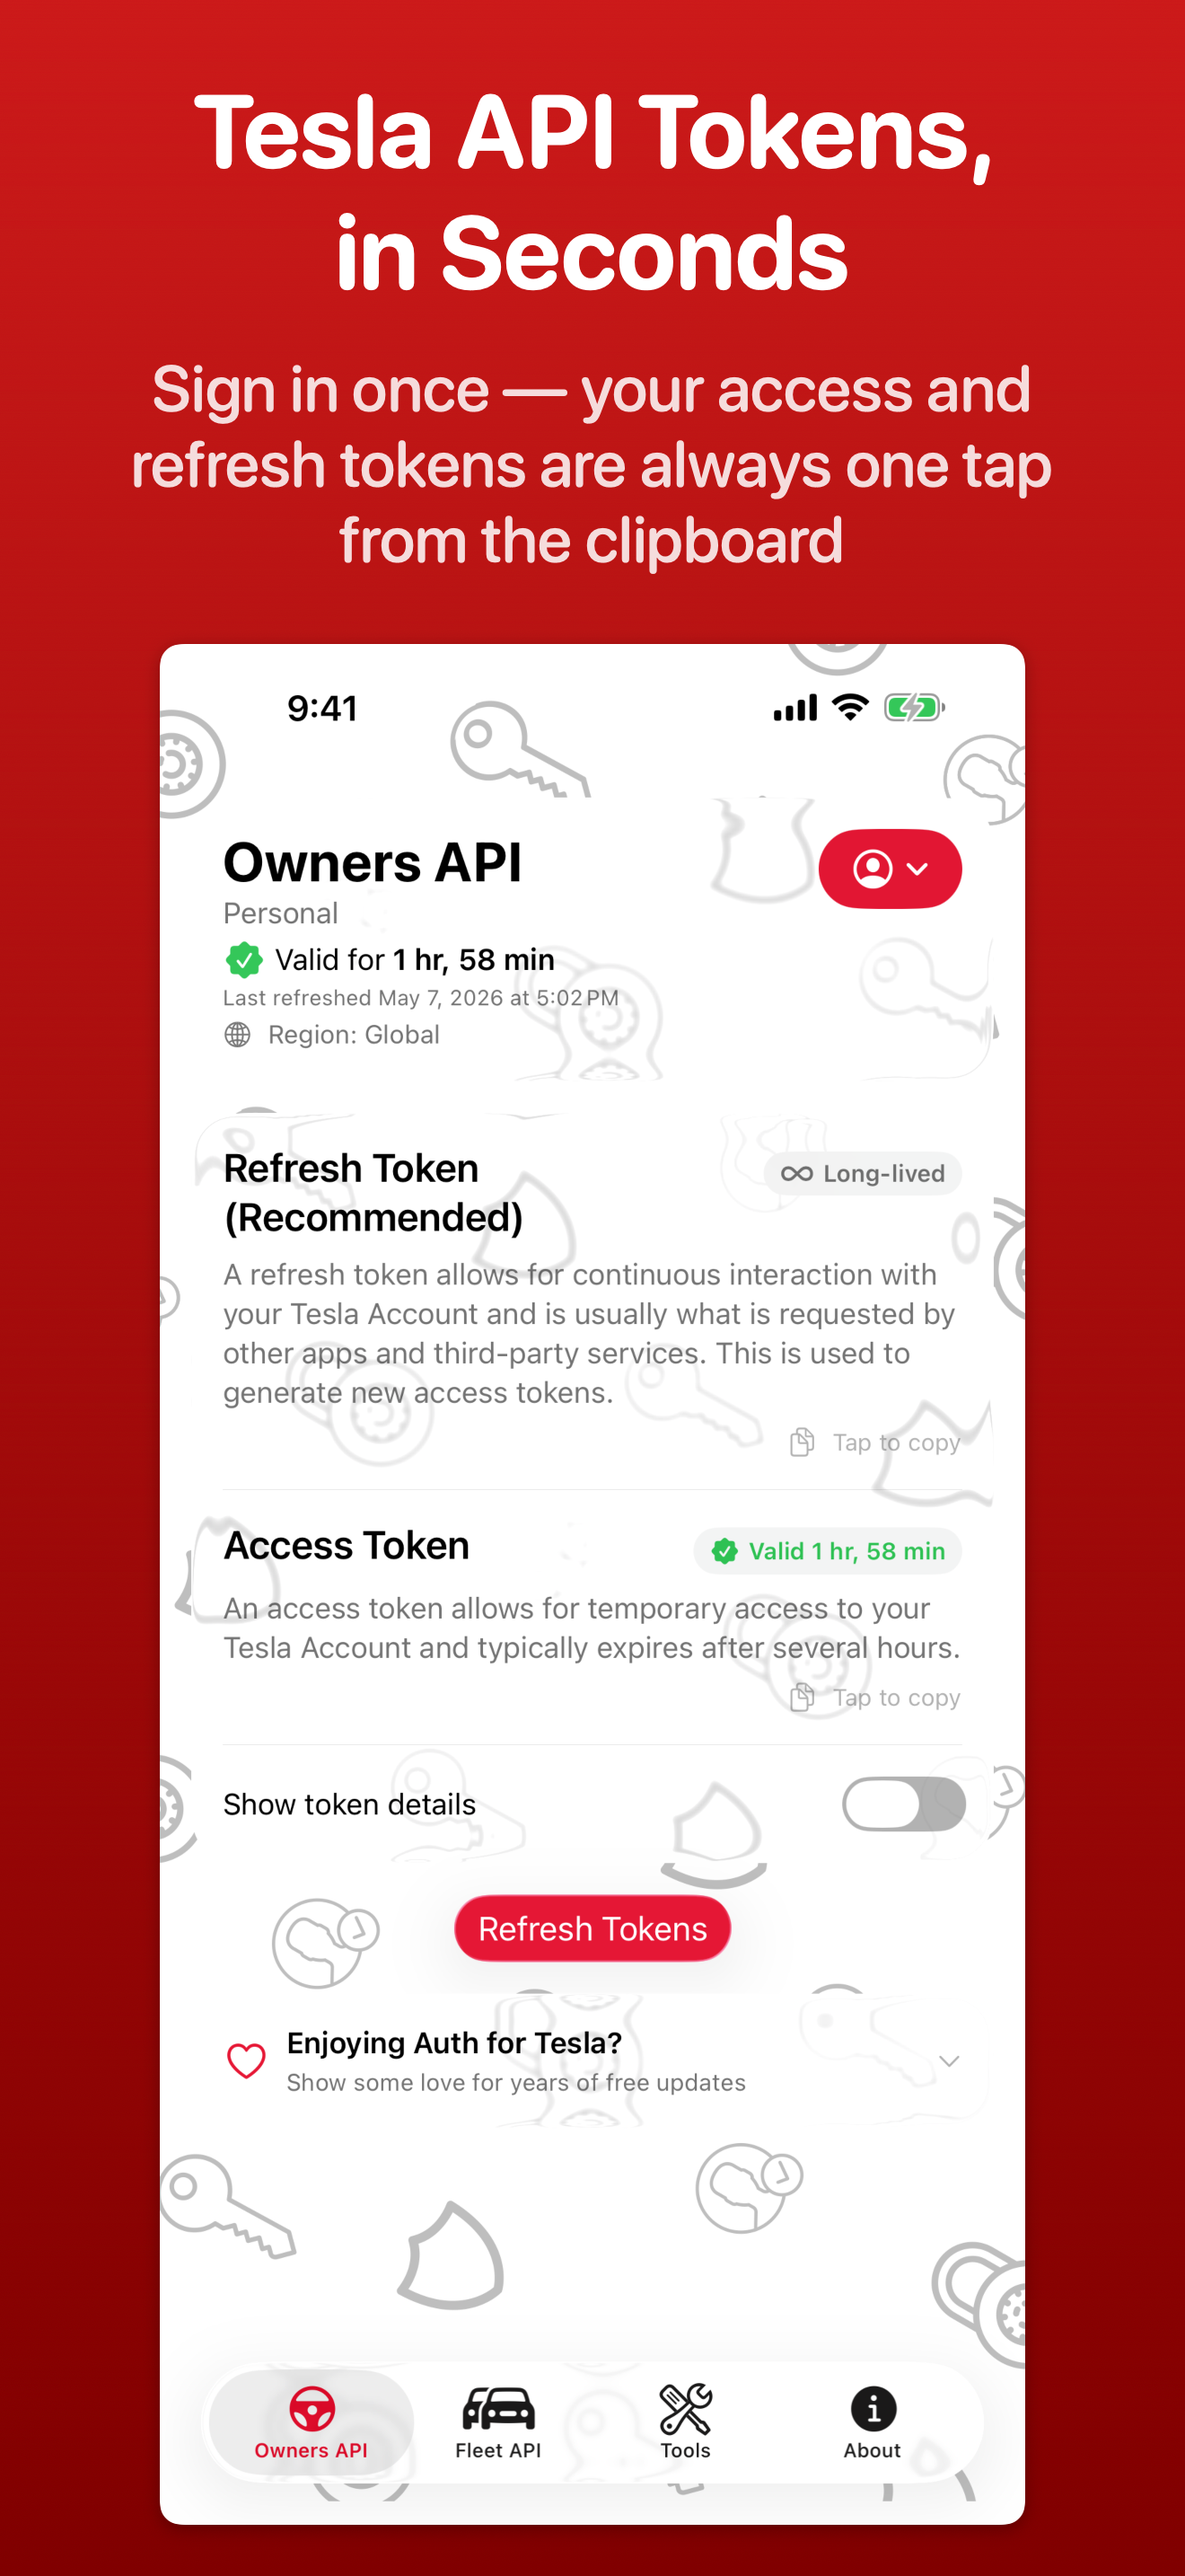
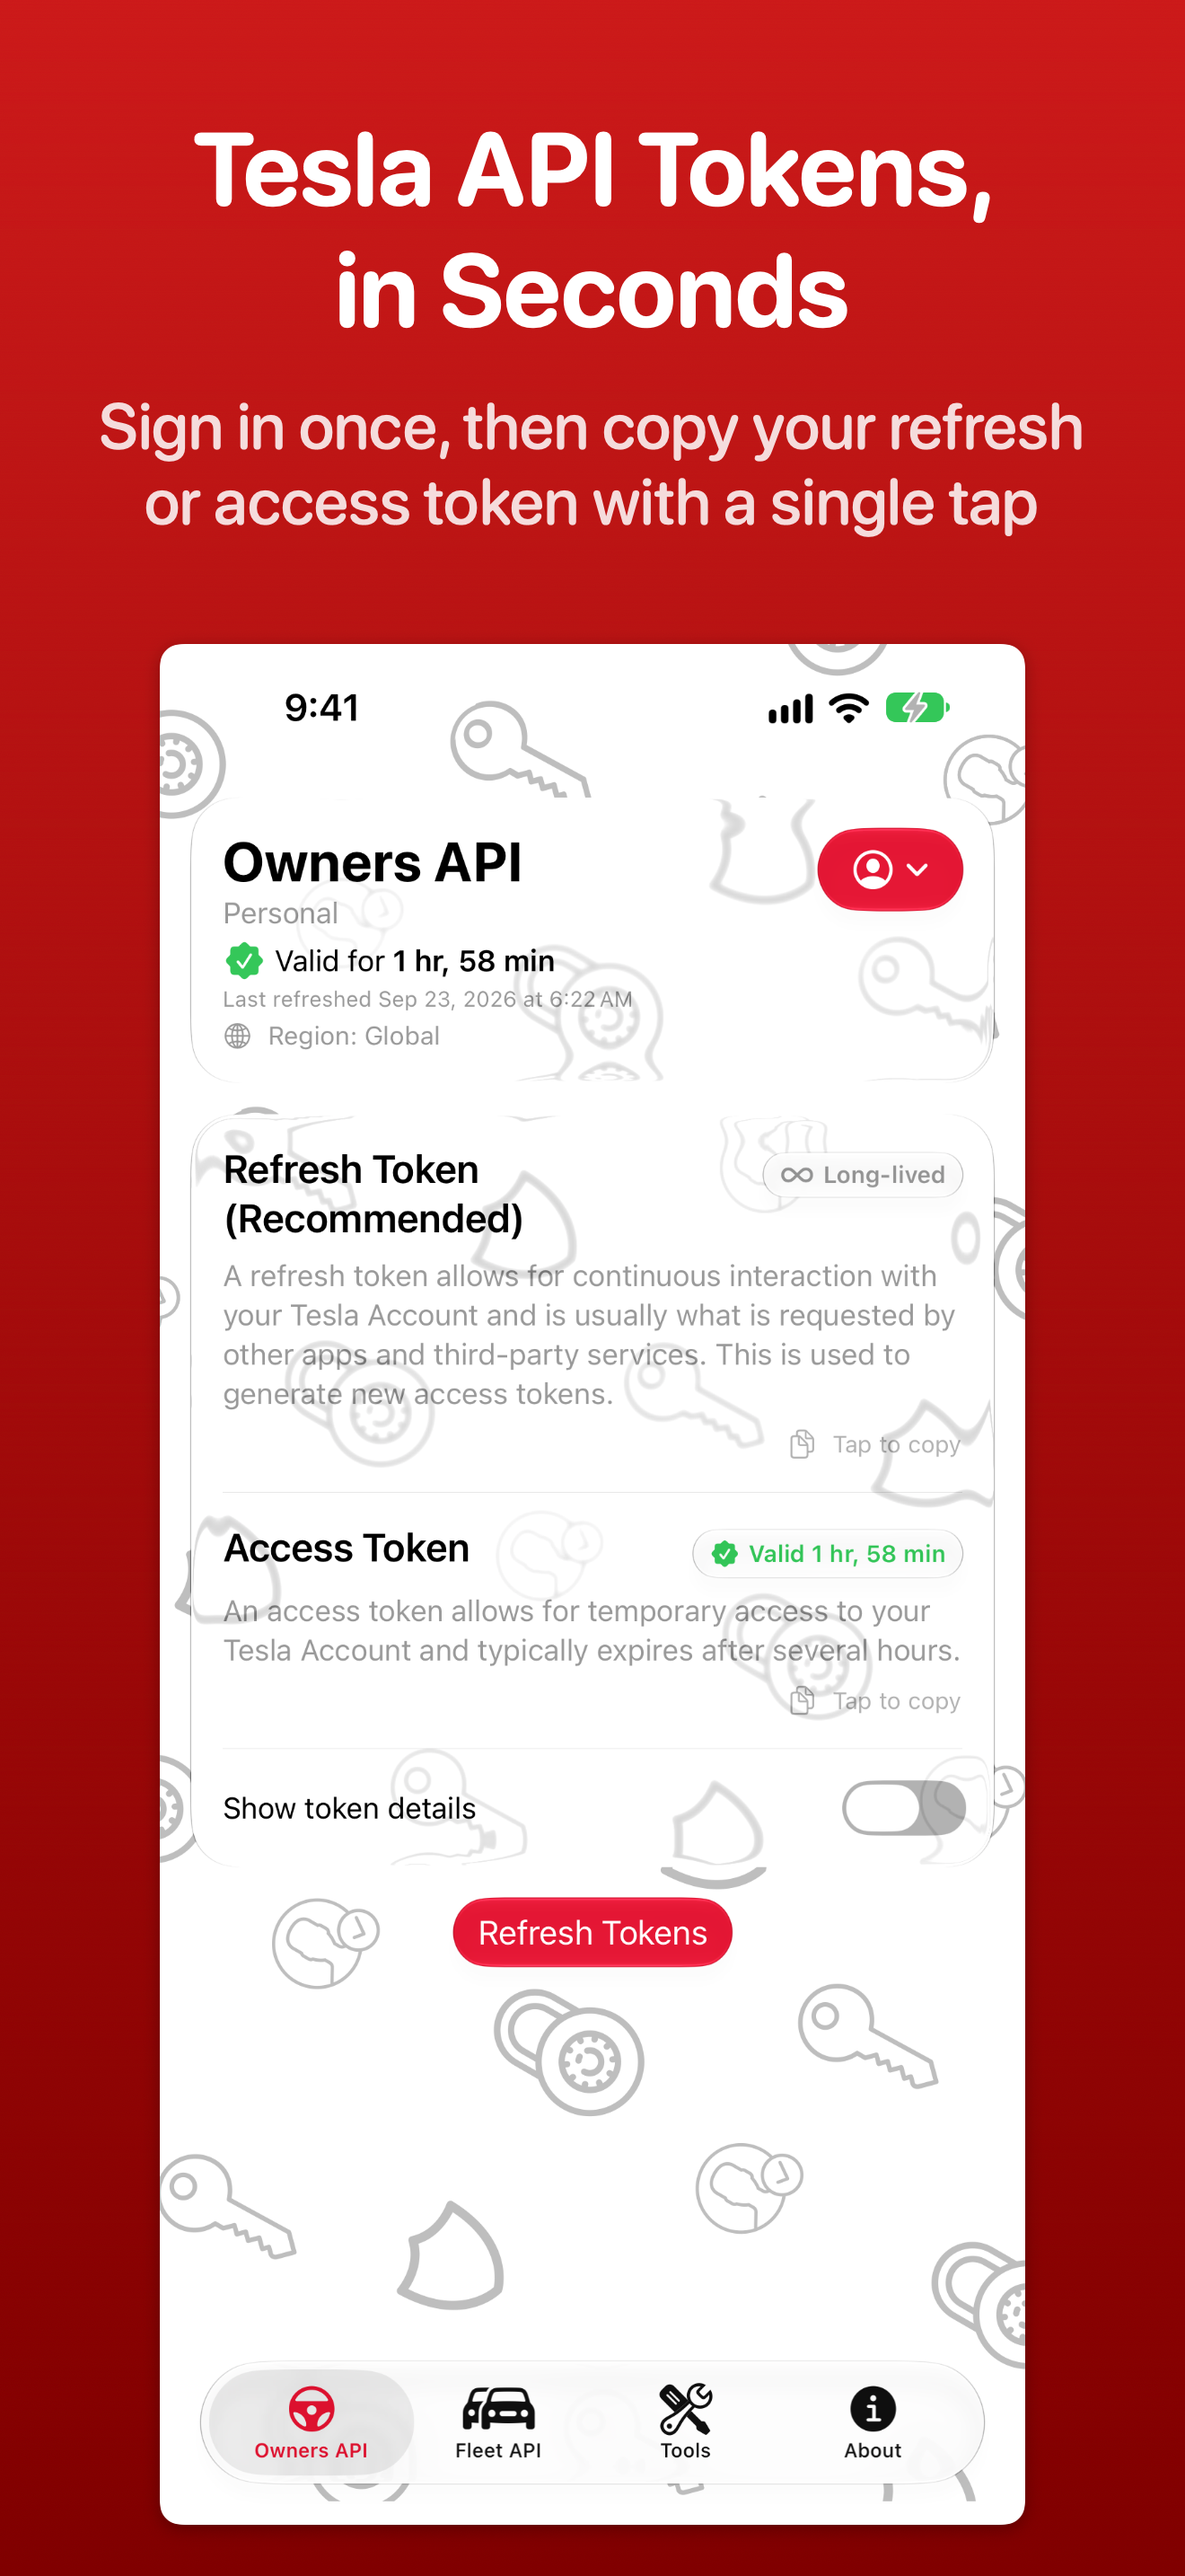
Retell the store story and recapture every screenshot (DRSFramer#31)
- appstore.json: new description, promo text, keywords and eight
  captions built on one story: get a token, keep your password with
  Tesla, prove it, decode it, paste it into code, switch accounts,
  Fleet API, Shortcuts. Stronger non-affiliation line; no pricing or
  cost wording anywhere.
- Screenshot harness hides the tip jar and re-dates fixture JWTs so the
  JWT Inspector shows Valid, matching the home screen countdown.
- Sign-in screen copy tidied ("Sign in to generate tokens") and now
  says the password never passes through the app.
- UI test target gets MACOSX_DEPLOYMENT_TARGET 26.0 so Mac Catalyst
  captures run on a macOS 27.0 host with the 27.2 SDK.
- Recaptured iPhone, iPad and Mac; re-rendered all 24 posters.

Claude-Session: https://claude.ai/code/session_01AKGxiPJPLPqcPHMWUj7K4z

diff --git a/AuthAppForTesla/Models/ScreenshotHarness.swift b/AuthAppForTesla/Models/ScreenshotHarness.swift
@@ -77,9 +77,10 @@ enum ScreenshotFixtures {
         )
     }
 
-    static func makeFleetToken(prefix: String = "eu") -> Token {
+    static func makeFleetToken(access: String = sampleFleetToken,
+                               prefix: String = "eu") -> Token {
         Token(
-            access_token: sampleFleetToken,
+            access_token: access,
             token_type: "bearer",
             expires_in: 28800,
             refresh_token: "\(prefix)_sample_fleet_refresh_token_screenshot_fixture",
@@ -116,6 +117,40 @@ enum ScreenshotHarness {
     /// `ScreenshotHarness.sampleOwnersToken` keep working without
     /// changes after the rename to `ScreenshotFixtures`.
     static var sampleOwnersToken: String { ScreenshotFixtures.sampleOwnersToken }
+
+    /// How long the seeded tokens have left, matching the `expires_at`
+    /// that `ScreenshotFixtures.makeOwnersToken` stamps on them.
+    private static let fixtureLifetimeRemaining: TimeInterval = 7140
+
+    /// The sample Owners token re-dated so it is currently valid. Used
+    /// by the JWT Inspector screenshot so its status card agrees with
+    /// the "Valid for 1 hr, 59 min" badge on the home screen.
+    static var currentOwnersToken: String { redated(ScreenshotFixtures.sampleOwnersToken) }
+
+    /// Rewrites the `iat`/`exp` claims of a fixture JWT so it reads as
+    /// issued six hours ago and expiring alongside the seeded
+    /// `expires_at`. Header and the literal `.signature` segment are
+    /// kept untouched, so `ScreenshotFixtures.isFixture` still
+    /// recognises the result. Claims the template lacks stay absent.
+    static func redated(_ template: String) -> String {
+        let parts = template.split(separator: ".", omittingEmptySubsequences: false).map(String.init)
+        guard parts.count == 3,
+              let data = base64UrlDecode(parts[1]),
+              var payload = (try? JSONSerialization.jsonObject(with: data)) as? [String: Any]
+        else { return template }
+
+        let expiry = Date().addingTimeInterval(fixtureLifetimeRemaining).timeIntervalSince1970
+        if payload["exp"] != nil { payload["exp"] = Int(expiry) }
+        if payload["iat"] != nil { payload["iat"] = Int(expiry) - 28800 }
+
+        guard let encoded = try? JSONSerialization.data(withJSONObject: payload, options: [.sortedKeys])
+        else { return template }
+        let segment = encoded.base64EncodedString()
+            .replacing("+", with: "-")
+            .replacing("/", with: "_")
+            .replacing("=", with: "")
+        return [parts[0], segment, parts[2]].joined(separator: ".")
+    }
 
     /// Pick the initial tab the app should land on for the active scenario.
     static func initialTab() -> AppTab {
@@ -155,7 +190,7 @@ enum ScreenshotHarness {
     }
 
     private static func seedSingle(model: AuthViewModel) {
-        let owners = ScreenshotFixtures.makeOwnersToken()
+        let owners = ScreenshotFixtures.makeOwnersToken(access: currentOwnersToken)
         let ownersProfile = TokenProfile(name: "Personal", token: owners)
         model.profilesV3 = TokenProfileCollection(
             profiles: [ownersProfile],
@@ -163,7 +198,7 @@ enum ScreenshotHarness {
         )
         model.tokenV3 = owners
 
-        let fleet = ScreenshotFixtures.makeFleetToken()
+        let fleet = ScreenshotFixtures.makeFleetToken(access: redated(ScreenshotFixtures.sampleFleetToken))
         let fleetProfile = TokenProfile(name: "Production", token: fleet)
         model.profilesV4 = TokenProfileCollection(
             profiles: [fleetProfile],
@@ -174,12 +209,12 @@ enum ScreenshotHarness {
 
     private static func seedMultiProfile(model: AuthViewModel) {
         // Owners — three profiles to show the switcher.
-        let personal = TokenProfile(name: "Personal", token: ScreenshotFixtures.makeOwnersToken())
+        let personal = TokenProfile(name: "Personal", token: ScreenshotFixtures.makeOwnersToken(access: currentOwnersToken))
         let work = TokenProfile(
             name: "Work",
             token: ScreenshotFixtures.makeOwnersToken(access: ScreenshotFixtures.sampleOwnersTokenWork)
         )
-        let test = TokenProfile(name: "Test", token: ScreenshotFixtures.makeOwnersToken())
+        let test = TokenProfile(name: "Test", token: ScreenshotFixtures.makeOwnersToken(access: currentOwnersToken))
 
         model.profilesV3 = TokenProfileCollection(
             profiles: [personal, work, test],

diff --git a/AuthAppForTesla/View/Login/LoginViewFooter.swift b/AuthAppForTesla/View/Login/LoginViewFooter.swift
@@ -14,15 +14,15 @@ struct LoginViewFooter: View {
     var body: some View {
         VStack(spacing: AppSpacing.sm) {
             Spacer()
-            Text("Login to Tesla to generate Tokens")
+            Text("Sign in to generate tokens")
                 .font(.title2)
-            Text("In order to generate tokens, you have to login with your Tesla account.")
+            Text("Sign in with your Tesla account to get a refresh token and an access token.")
                 .font(.body)
                 .multilineTextAlignment(.center)
                 .padding(.horizontal, AppSpacing.md)
             LoginViewSignIn(model: model, loginEnvironment: loginEnvironment)
                 .padding(.vertical, AppSpacing.sm)
-            Text("You will be presented with a web browser where you can enter your Tesla credentials into the Tesla website. If you have MFA configured you will be asked to enter a valid MFA code.")
+            Text("You sign in on Tesla’s own website in a secure browser — your password never passes through this app. If you use MFA, you’ll be asked for your code there too.")
                 .font(.caption)
                 .multilineTextAlignment(.center)
                 .padding(.horizontal, AppSpacing.lg)

diff --git a/AuthAppForTesla/View/LoginView.swift b/AuthAppForTesla/View/LoginView.swift
@@ -19,7 +19,9 @@ struct LoginView: View {
                     LoginViewHeader()
                     LoginViewFooter(model: model, loginEnvironment: loginEnvironment)
                         .fixedSize(horizontal: false, vertical: true)
-                    TipJarView(scrollPosition: $scrollPosition)
+                    if !TipJarView.isSuppressed {
+                        TipJarView(scrollPosition: $scrollPosition)
+                    }
                 }
                 .padding(.horizontal, AppSpacing.screenEdge)
                 .padding(.top, AppSpacing.scrollTop)

diff --git a/AuthAppForTesla/View/Shared/TipJarView.swift b/AuthAppForTesla/View/Shared/TipJarView.swift
@@ -49,6 +49,17 @@ struct TipJarView: View {
     /// Stable identity for scroll targeting.
     static let scrollID = "tipJar"
 
+    /// True while the App Store screenshot harness is driving the app.
+    /// Marketing screenshots must not show the tip prompt, so call
+    /// sites skip the view entirely when this is set.
+    static var isSuppressed: Bool {
+        #if DEBUG
+        ScreenshotScenario.isActive
+        #else
+        false
+        #endif
+    }
+
     private var tipHeader: some View {
         Button {
             isExpanded.toggle()

diff --git a/AuthAppForTesla/View/AboutView.swift b/AuthAppForTesla/View/AboutView.swift
@@ -18,7 +18,9 @@ struct AboutView: View {
                     AboutViewShortcuts()
                     AboutViewMoreApps()
                     AboutViewFooter()
-                    TipJarView(scrollPosition: $scrollPosition)
+                    if !TipJarView.isSuppressed {
+                        TipJarView(scrollPosition: $scrollPosition)
+                    }
                 }
                 .padding(.horizontal, AppSpacing.screenEdge)
                 .padding(.top, AppSpacing.scrollTop)

diff --git a/AuthAppForTesla/View/HomeView.swift b/AuthAppForTesla/View/HomeView.swift
@@ -52,7 +52,9 @@ struct HomeView: View {
 
                     HomeViewRefreshTokens(model: model)
 
-                    TipJarView(scrollPosition: $scrollPosition)
+                    if !TipJarView.isSuppressed {
+                        TipJarView(scrollPosition: $scrollPosition)
+                    }
                 }
                 .padding(.horizontal, AppSpacing.screenEdge)
                 .padding(.top, AppSpacing.scrollTop)

diff --git a/AuthAppForTesla/View/RootView.swift b/AuthAppForTesla/View/RootView.swift
@@ -140,7 +140,7 @@ struct RootView: View {
     private static func jwtInspectorInitialInput() -> String {
         #if DEBUG
         if ScreenshotScenario.current == .jwtInspector {
-            return ScreenshotHarness.sampleOwnersToken
+            return ScreenshotHarness.currentOwnersToken
         }
         #endif
         return ""
